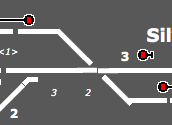
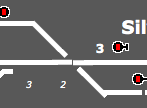
slip cpe post tweaks

diff --git a/_posts/nl/2025-01-14-jmri-cpe-slip.md b/_posts/nl/2025-01-14-jmri-cpe-slip.md
@@ -15,17 +15,28 @@ categories:
 
 Op mijn modelbaan verbindt een op afstand bediende engelse wissel de Ouray-keerlus met Silverton. Het weergeven van dit element op een Layout Editor-paneel of een klassiek JMRI Paneel is eenvoudig met een speciaal menu. Maar in de Control Panel Editor (CPE) kan zogenaamde Turnout Indicator-element dat de bezetting en routetoewijzing kan weergeven geen 3-weg wissels en engelse wissels plaatsen (zie [docs](www.jmri.org/help/en/package/jmri/jmrit/display/ControlPanelEditor.shtml)).
 
-<figure><img src='{{ "/assets/img/trains2/jmri/jmri-le-slipedit.png" | relative_url }}' alt="LE slip edit scherm" class='img-fluid'><figcaption class="kleiner">LE slip edit scherm</figcaption></figure>
+<figure><img src='{{ "/assets/img/trains2/jmri/jmri-le-slipedit-nl.png" | relative_url }}' alt="LE slip edit scherm" class='img-fluid'><figcaption class="kleiner">LE slip edit scherm</figcaption></figure>
 
-Mijn engelse wissel LT2 werkt met maar twee standen, terwijl het LE-slip/3-weg gereedschap twee wisseladressen verwacht voor ten minste 3 standen. Op mijn baan poolt relais LT1 de DCC-railvoeding van de keerlus om zodat het DCC-signaal matcht op de blokgrens en kortsluiting wordt voorkomen. Aan de hand van deze 2 wisseladressen kunnen we een representatie maken op het CPE-paneel, met een kleine twist:
+Mijn engelse wissel LT2 werkt met maar twee standen, terwijl het LE-slip/3-weg gereedschap twee wisseladressen verwacht voor ten minste 3 standen. Op mijn baan poolt relais LT1 de DCC-railvoeding van de keerlus om zodat het DCC-signaal matcht op de blokgrens en kortsluiting wordt voorkomen. Aan de hand van deze 2 wisseladressen kunnen we een representatie maken op het CPE-paneel:
+
+| LT1 (ompoolrelais, linker helft)	 | IT2 (rechter helft)	 | LT2 (2-stands engelse wissel) |
+|-----------------------------------|----------------------|-------------------------------| 
+| recht	                            | afbuigend	           | afbuigend                     |
+| recht	                            | recht	               | recht                         |
+| afbuigend	                        | afbuigend	           | recht                         |
+| afbuigend	                        | recht	               | afbuigend                     |
 
 <figure><img src='{{ "/assets/img/trains2/jmri/slip-logic-table.png" | relative_url }}' alt="Logische tabel LT1 + IT2 > LT2" class='img-fluid'><figcaption class="kleiner">Logische tabel LT1 + IT2 > LT2</figcaption></figure>
 
-De engelse wissel wordt bediend via twee indicatie-wisselpictogrammen op het paneel. Een JMRI Logix controleert de status van beide en stelt LT2 in om overeen te komen met de logische tabel. (Routes kunnen slechts één stuurwissel gebruiken, dus dan heb je een extra (stuur)sensor nodig om de tweede wissel te volgen).
+De engelse wissel wordt bediend via twee indicatie-wisselpictogrammen op het paneel. Een JMRI Logix controleert de status van beide en stelt LT2 in om overeen te komen met de logische tabel (Routes kunnen slechts één stuurwissel gebruiken, dus dan heb je een extra (stuur)sensor nodig om de tweede wissel te volgen). Zo ziet het bewerk-scherm van de Logix er uit, met 4 Voorwaarden:
 
 <figure><img src='{{ "/assets/img/trains2/jmri/jmri-logix-edit.png" | relative_url }}' alt="Logix bewerkscherm" class='img-fluid'><figcaption class="kleiner">Logix bewerkscherm</figcaption></figure>
 
-De afbeeldingskaart voor beide helften van het slippictogram is bijgesneden uit een set normale indicator-wisselpictogrammen, waarbij de linkerkant 180 graden is gedraaid. Download een zip-bestand met de speciale pictogrammen die ik heb gemaakt [hier](/assets/downloads/jmriprefs-resources-slip.zip) en kopieer de inhoud ervan naar de map JMRI-preferences/resources/.
+Het symbool voor de engelse wissel op het Control Panel bestaat uit 2 halve plaatjes, die elk zijn opgebouwd uit 4 x 4 .png afbeeldingen:
+<figure><img src='{{ "/assets/img/trains2/jmri/slip-icon-set-nl.png" | relative_url }}' alt="Symbool plaatjesset" class='img-fluid'><figcaption class="kleiner">Symbool bewerkscherm met plaatjesset</figcaption></figure>
+
+De afbeelding die we voor elke helft van het pictogram gebruiken, is gesneden uit een set normale indicator-wisselpictogrammen, waarbij de linkerkant 180 graden is gedraaid.<br>
+Download een zip-bestand met de speciale pictogrammen die ik heb gemaakt [hier](/assets/downloads/jmriprefs-resources-slip.zip) en kopieer de inhoud ervan naar de map JMRI-preferences/resources/.
 
 <div class="row">
 <div class="col-sm">

diff --git a/_posts/en-us/2025-01-14-jmri-cpe-slip.md b/_posts/en-us/2025-01-14-jmri-cpe-slip.md
@@ -15,11 +15,19 @@ categories:
 
 On my layout a remote double slip connects the Ouray loop in Silverton. To display this turnout on a Layout Editor panel or a classic Panel is straight forward using a dedicated tool. But in Control Panel Editor (CPE) the so-called Turnout Indicator element that can show occupancy and route assignment is not available for 3-way turnouts and slips (see [docs](www.jmri.org/help/en/package/jmri/jmrit/display/ControlPanelEditor.shtml)).
 
-<figure><img src='{{ "/assets/img/trains2/jmri/jmri-le-slipedit.png" | relative_url }}' alt="LE slip edit pane" class='img-fluid'><figcaption class="kleiner">LE slip edit pane</figcaption></figure>
+<figure><img src='{{ "/assets/img/trains2/jmri/jmri-le-slipedit-en.png" | relative_url }}' alt="LE slip edit pane" class='img-fluid'><figcaption class="kleiner">LE slip edit pane</figcaption></figure>
 
 My slip turnout LT2 has only two states to operate, whilst the LE slip/3-way tool expects two turnout addresses for at least 3 states.
 Relay LT1 flips the return loop DCC track power to match the feeders to the slip and beyond to prevent a short.
-Using these 2 turnout addresses we can create a representation on the CPE panel, with a slight twist:
+Using these 2 turnout addresses we can create a representation on the CPE panel:
+
+| LT1 (loop relay, left half)	 | IT2 (right half of icon)	 | LT2 (2-state remote slip) |
+|------------------------------|---------------------------|---------------------------| 
+| closed	                      | thrown	                   | thrown                    |
+| closed	                      | closed	                   | closed                    |
+| thrown	                      | thrown	                   | closed                    |
+| thrown	                      | closed	                   | thrown                    |
+
 
 <figure><img src='{{ "/assets/img/trains2/jmri/slip-logic-table.png" | relative_url }}' alt="Logic table LT1 + IT2 > LT2" class='img-fluid'><figcaption class="kleiner">Logic table LT1 + IT2 > LT2</figcaption></figure>
 
@@ -27,6 +35,9 @@ The slip is operated via two indicator turnout icons displayed on the panel.
 A JMRI Logix checks the State of both and sets LT2 to match the logic table. (Routes can use only one commanding turnout, so they would require a sensor to track the second turnout).
 
 <figure><img src='{{ "/assets/img/trains2/jmri/jmri-logix-edit.png" | relative_url }}' alt="Screen shot of Logix config pane" class='img-fluid'><figcaption class="kleiner">Screen shot of Logix config pane</figcaption></figure>
+
+The slip turnout icon on the Control Panel is actually made from two halfs placed back-to-back. Each indicator part uses an icon map of 4 x 4 .png afbeeldingen:
+<figure><img src='{{ "/assets/img/trains2/jmri/slip-icon-set-en.png" | relative_url }}' alt="Edit screen for icon map" class='img-fluid'><figcaption class="kleiner">Edit screen for icon map</figcaption></figure>
 
 The image map for both halves of the slip icon was trimmed from a normal indicator turnout icon set, with the left side rotated 180 degrees.
 Download a zip containing the special icons I created [here](/assets/downloads/jmriprefs-resources-slip.zip) and copy its contents to the JMRI preferences/resources folder.
